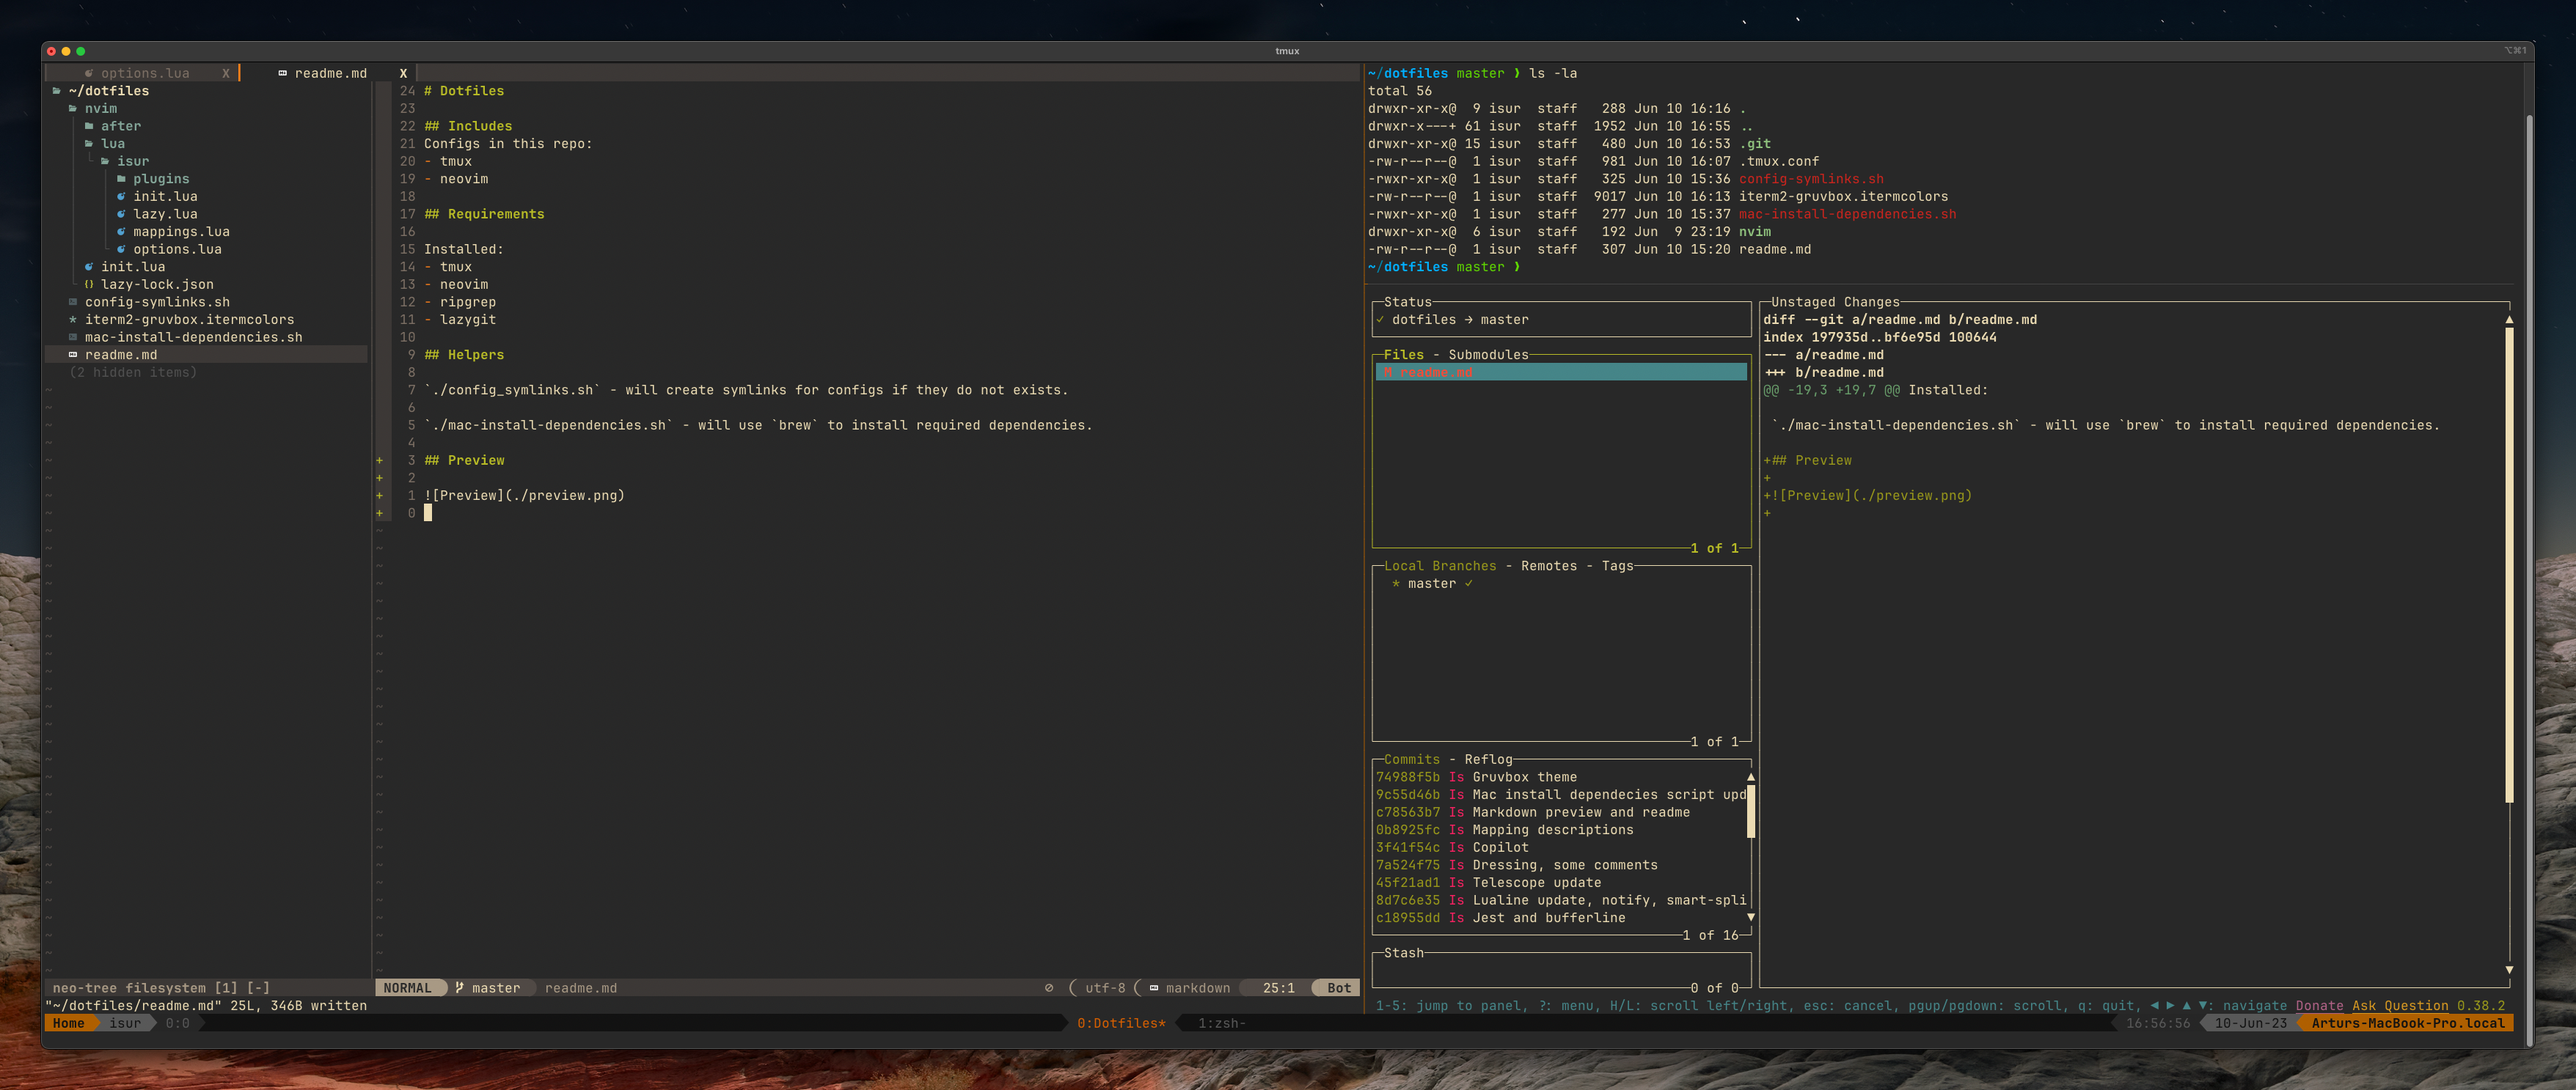
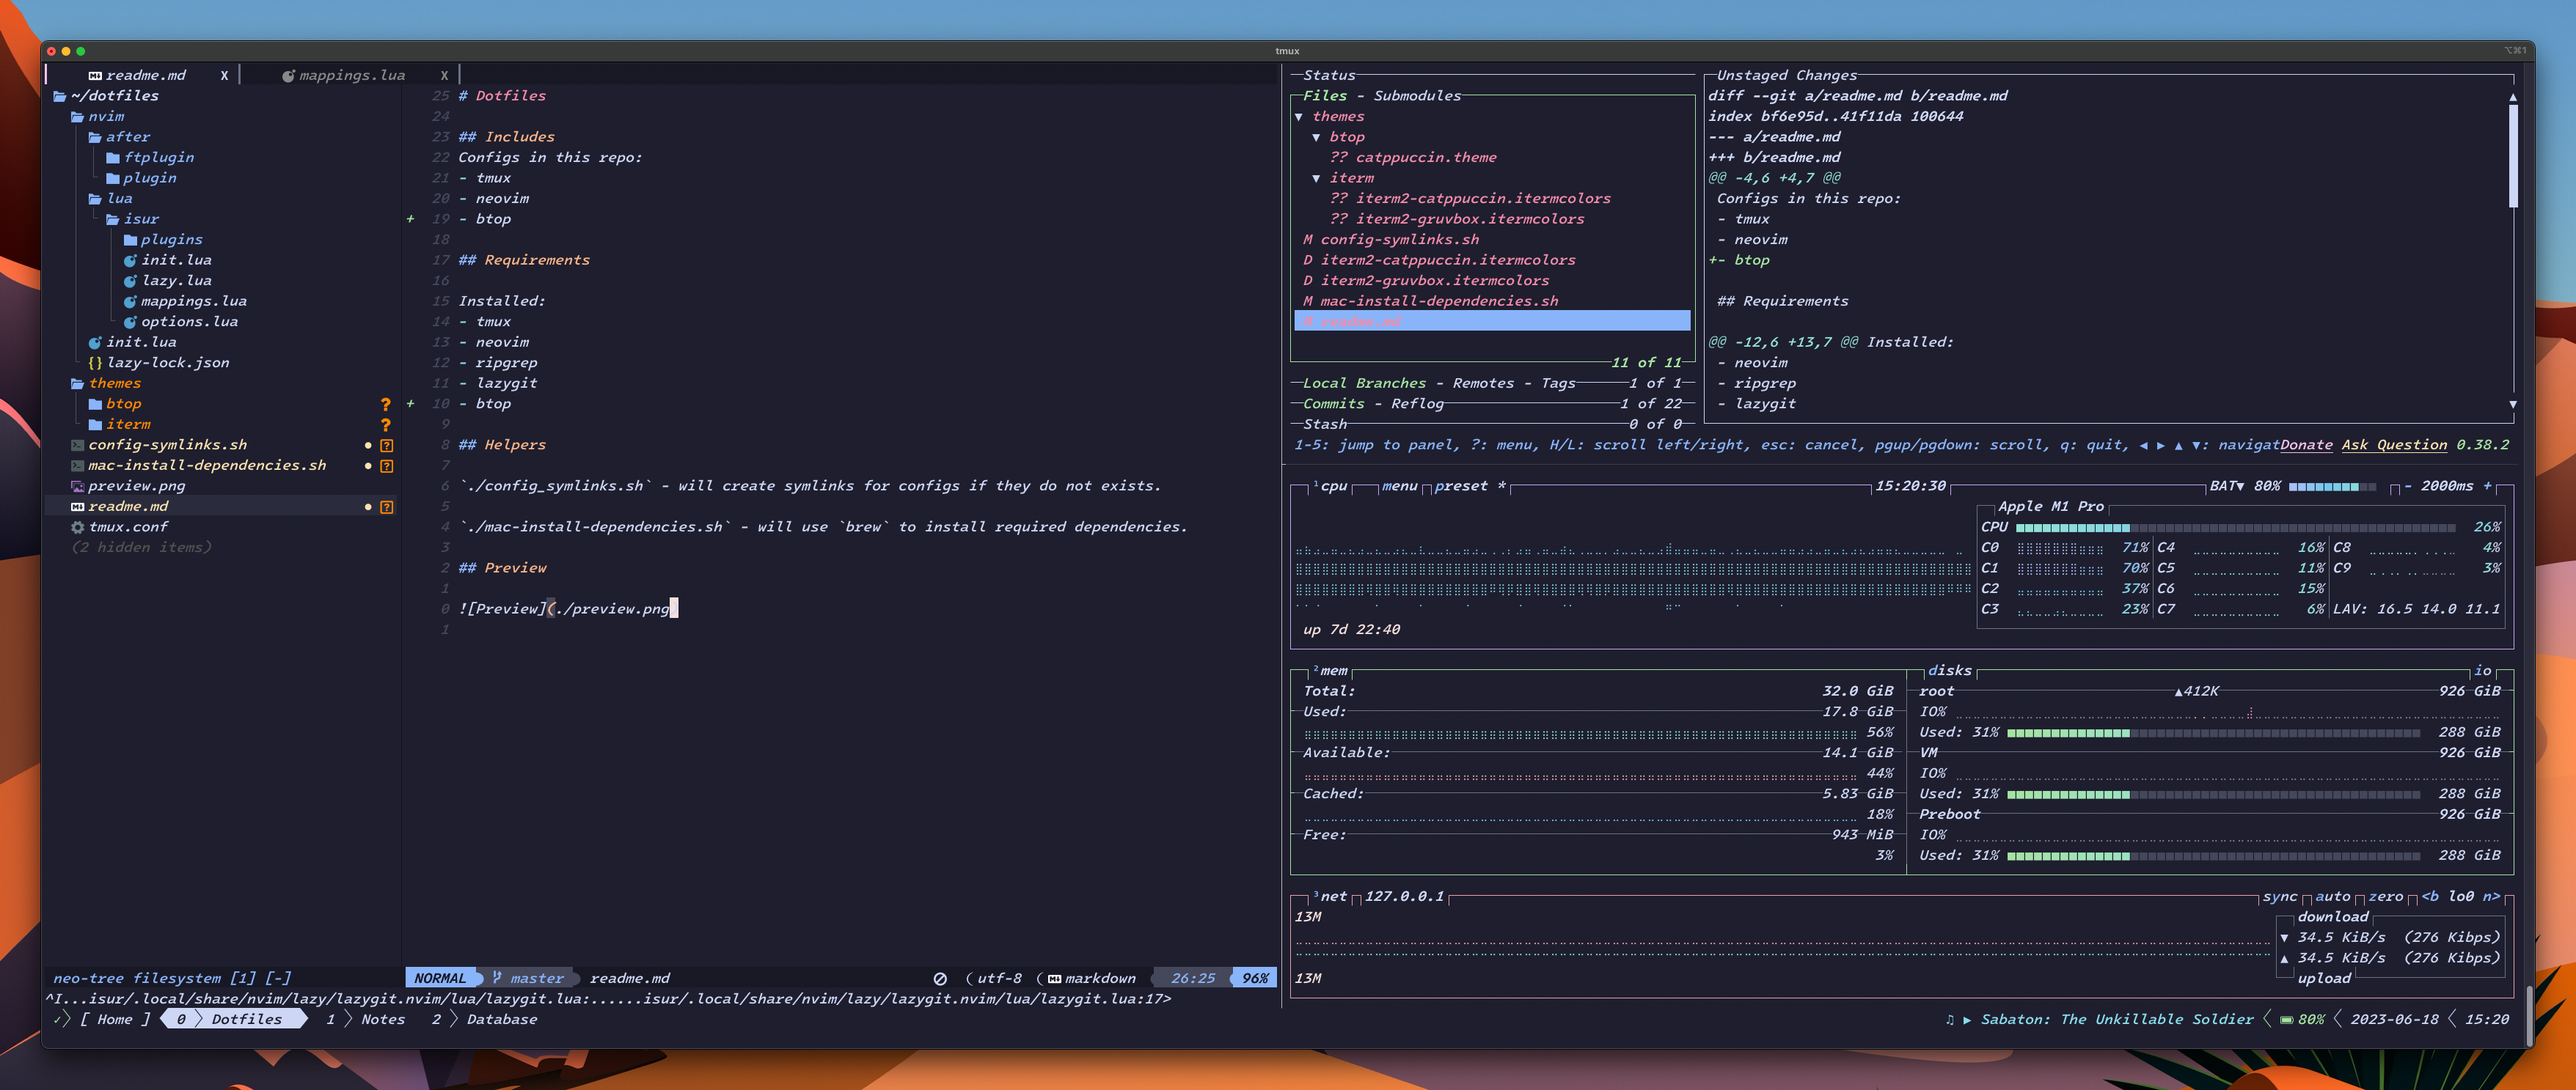
btop, theme, preview image

diff --git a/readme.md b/readme.md
@@ -4,6 +4,7 @@
 Configs in this repo:
 - tmux
 - neovim
+- btop
 
 ## Requirements
 
@@ -12,6 +13,7 @@ Installed:
 - neovim
 - ripgrep
 - lazygit
+- btop
 
 ## Helpers
 
